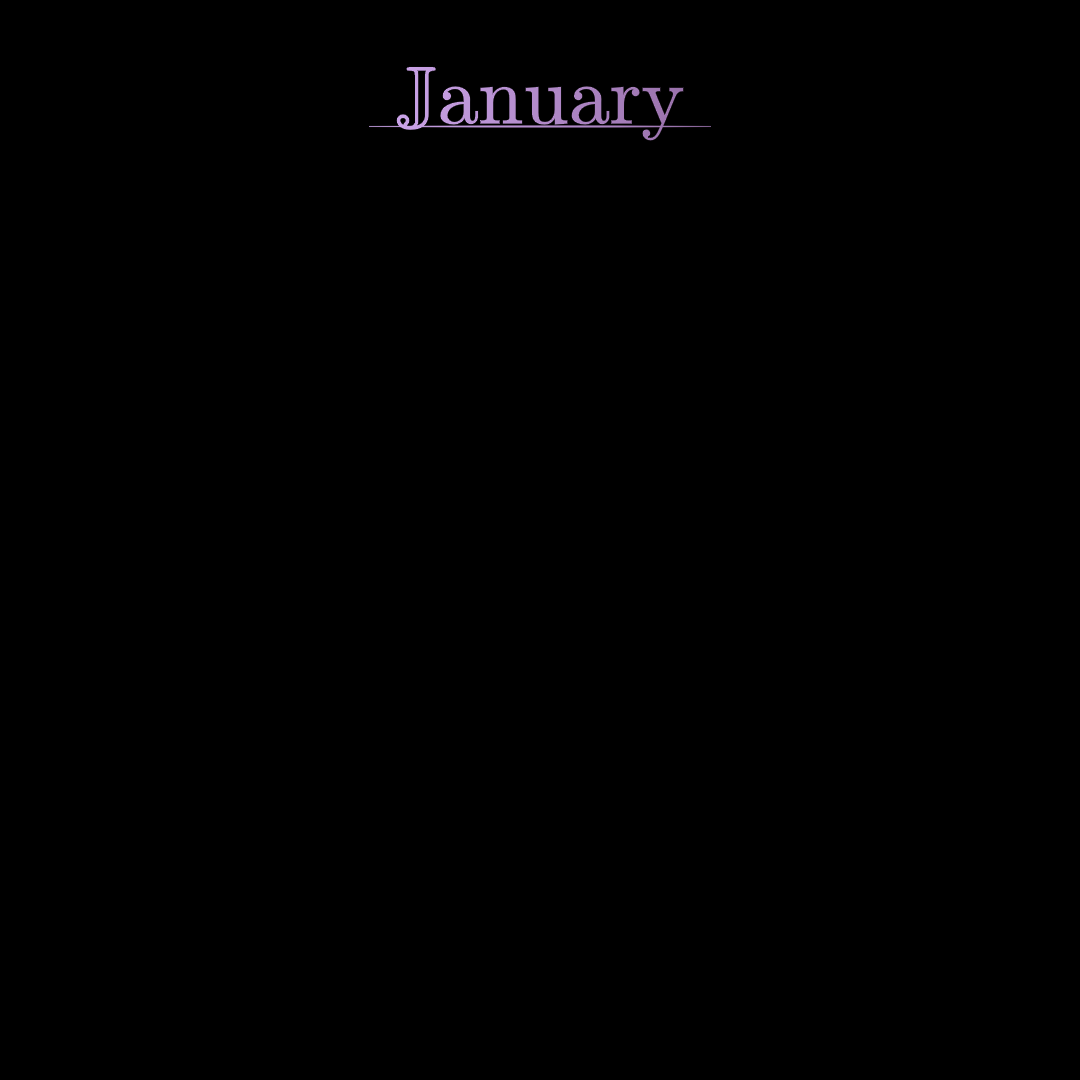
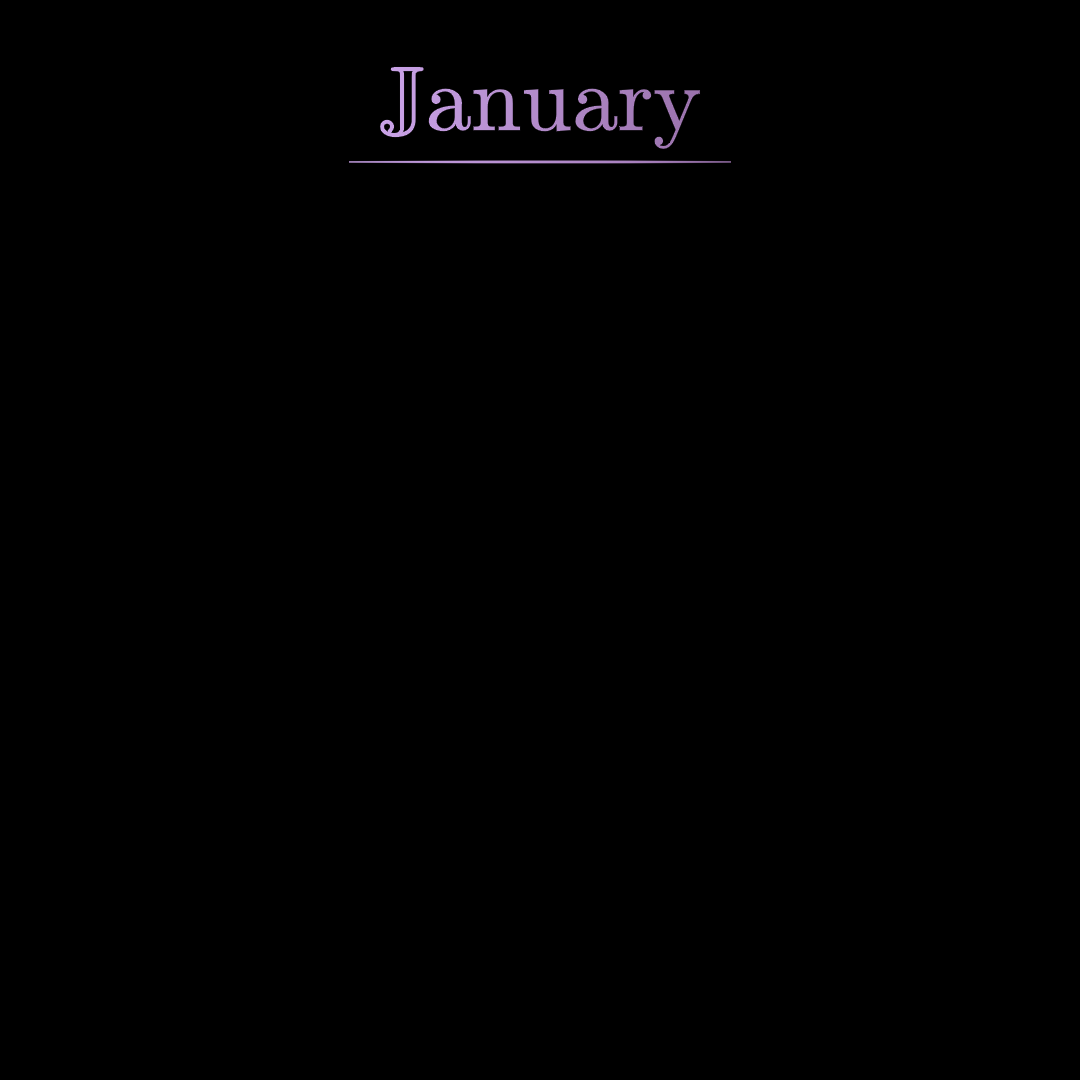
f

Changed region(s): [[0.3361, 0.0611, 0.6417, 0.1528]]

diff --git a/month.py b/month.py
@@ -17,11 +17,11 @@ class YourProbelm(InteractiveScene):
 class January(InteractiveScene):
     def construct(self):
         color = [PURPLE_A, PURPLE_C]
-        title = TexText(R"$\mathbb{J}$anuary", font_size=60)
+        title = TexText(R"$\mathbb{J}$anuary", font_size=67)
         title.set_color(color)
-        under = Underline(title, buff=-0.1)
+        under = Underline(title)
         under.insert_n_curves(10)
-        under.set_stroke(width=[0.5, 1.5, 1.5, 0.5], color=color)
+        under.set_stroke(width=[1, 2, 2, 1], color=color)
 
         titles = VGroup(under, title)
         titles.to_edge(UP)
